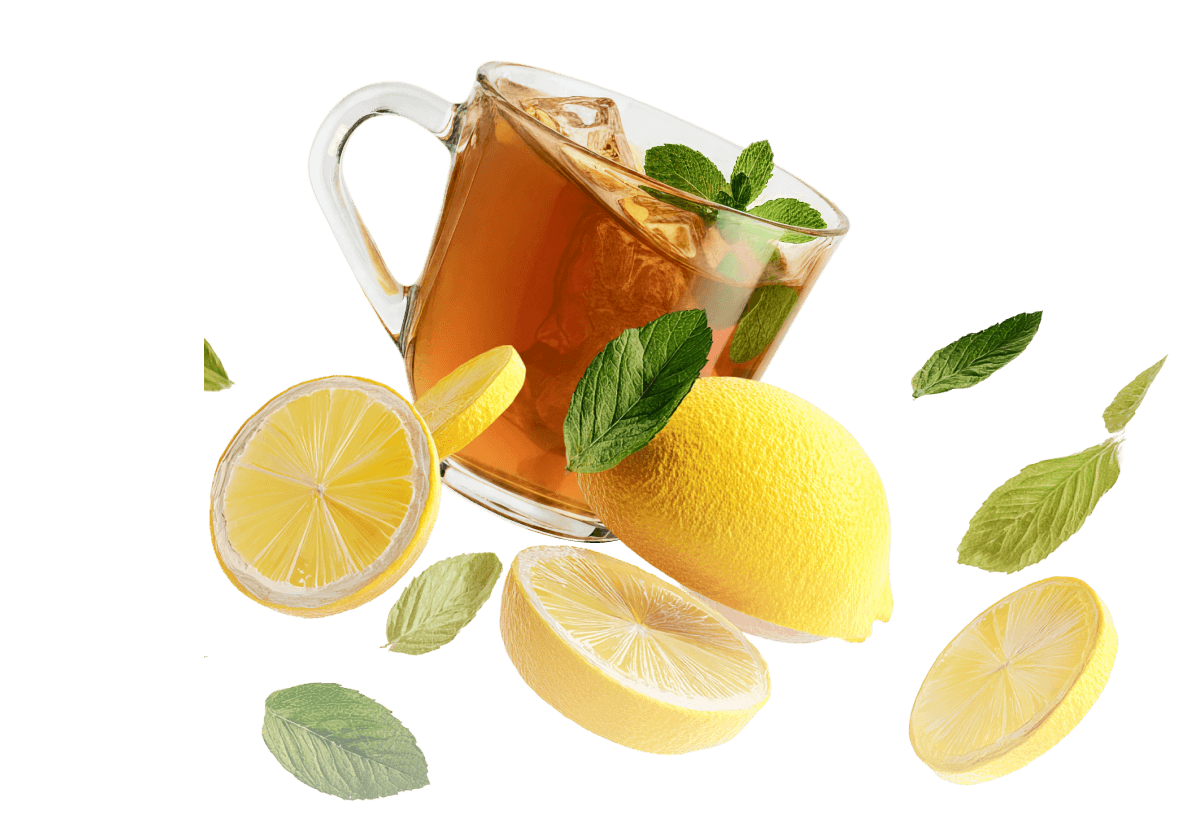
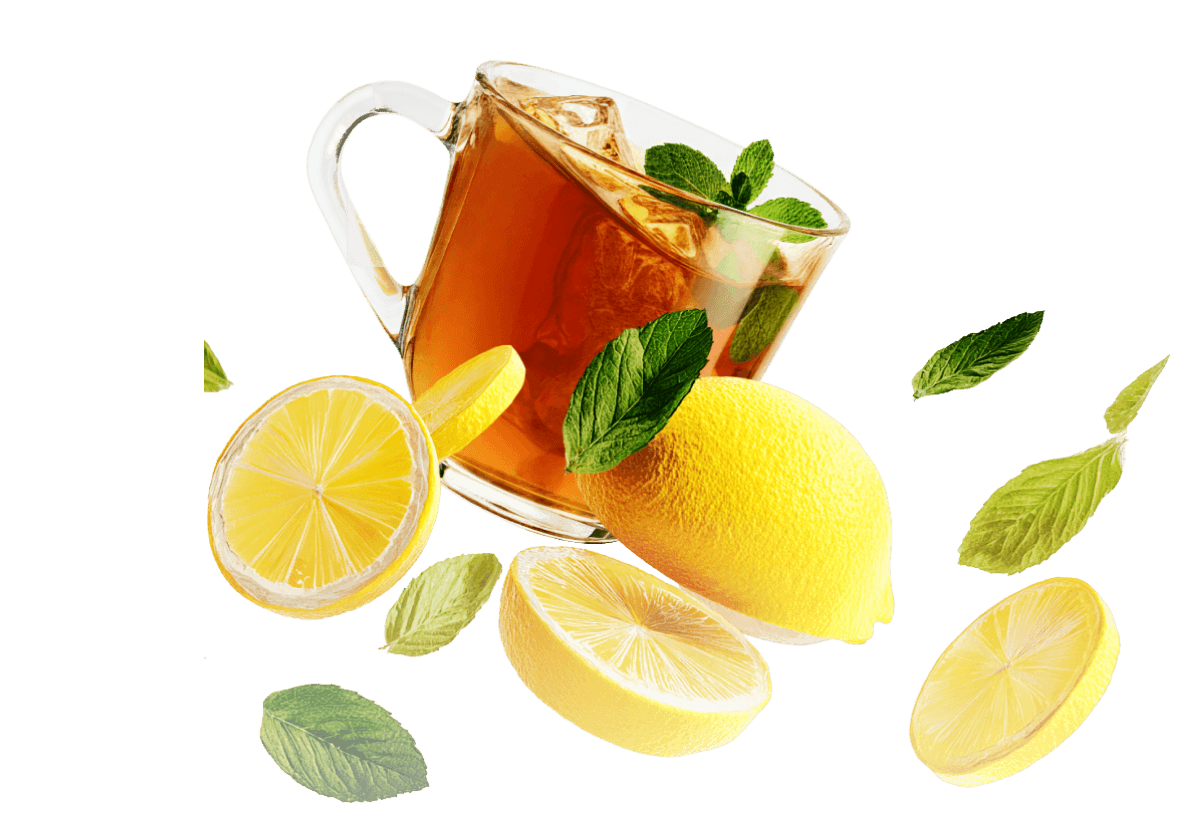
Update the Projects illustration in carousel 2

diff --git a/mos-carousel-2/index.html b/mos-carousel-2/index.html
@@ -1,5 +1,5 @@
 <!doctype html>
-<html lang="ru"><head><meta charset="utf-8"><meta name="viewport" content="width=device-width,initial-scale=1"><title>Вкусная Москва — карусель 2</title><link rel="icon" href="data:,"><link rel="stylesheet" href="styles.css?v=14"><link rel="stylesheet" href="header.css?v=7"><link rel="preload" href="assets/fonts/roboto-flex.ttf" as="font" type="font/ttf" crossorigin><link rel="stylesheet" href="fairs.css?v=2"><script type="module" src="carousel.js?v=9"></script><script type="module" src="fairs.js?v=2"></script></head>
+<html lang="ru"><head><meta charset="utf-8"><meta name="viewport" content="width=device-width,initial-scale=1"><title>Вкусная Москва — карусель 2</title><link rel="icon" href="data:,"><link rel="stylesheet" href="styles.css?v=15"><link rel="stylesheet" href="header.css?v=7"><link rel="preload" href="assets/fonts/roboto-flex.ttf" as="font" type="font/ttf" crossorigin><link rel="stylesheet" href="fairs.css?v=2"><script type="module" src="carousel.js?v=9"></script><script type="module" src="fairs.js?v=2"></script></head>
 <body><div id="mos-header" class="mos-widget-header mos_layouts_wrapper"><div class="Header_header__1FD6w Header_headerRendered__24O7k" tabindex="-1"><div class="Header_inside__1MzA3 ru"><header class="Caption_caption__3R-Mi" aria-label="Портал mos.ru"><div class="Caption_name__1pfTC"><a aria-disabled="true" tabindex="-1" aria-label="mos.ru — Официальный сайт Мэра Москвы" id="mos-header-title" class="link_link__29xFl link_focusable__lMy2y Caption_nameLink__2XS9J" style="height:100%"><span class="Caption_logo__IS1vg"><img src="assets/mos-header/logo.svg" aria-hidden="true" alt="" class="Caption_iconLogo__P_cnI"></span></a></div><div class="Caption_menu__2k-Z3"><div class="Menu_menuWrapper__341hI"><nav aria-label="Разделы портала" class="Menu_menu__13xOb"><div class="Menu_item__5wCCF"><div class="dropdown_dropdown__1Oynj dropdown_dropdownTriggerWithArrow__3jYM_"><a aria-disabled="true" tabindex="-1" role="link" class="Menu_link__1f7RY common_unstyledButton__10cKX common_large__34EIE common_large__34EIE link_primary__fU-Jd link_link__29xFl link_focusable__lMy2y">Новости</a><button aria-disabled="true" tabindex="-1" type="button" class="dropdown_dropdownTrigger__SxgNI link_focusable__lMy2y dropdown_dropdownTriggerWithArrowAlways__5y4mP" aria-label="Меню раздела Новости"><svg width="16" height="16" viewBox="0 0 16 16" fill="#0E0E0F" class="dropdown_dropdownTriggerArrow__17cwd dropdown_dropdownTriggerArrowVisible__3bAlf"><path d="M1.43774 5.3335L8.00008 11.8958L14.5624 5.3335L12.7711 5.3335L8.00008 10.1045L3.22908 5.3335L1.43774 5.3335Z" fill="#13151A"/></svg></button></div></div><div class="Menu_item__5wCCF"><div class="dropdown_dropdown__1Oynj dropdown_dropdownTriggerWithArrow__3jYM_"><a aria-disabled="true" tabindex="-1" role="link" class="Menu_link__1f7RY common_unstyledButton__10cKX common_large__34EIE common_large__34EIE link_primary__fU-Jd link_link__29xFl link_focusable__lMy2y">Услуги</a><button aria-disabled="true" tabindex="-1" type="button" class="dropdown_dropdownTrigger__SxgNI link_focusable__lMy2y dropdown_dropdownTriggerWithArrowAlways__5y4mP" aria-label="Меню раздела Услуги"><svg width="16" height="16" viewBox="0 0 16 16" fill="#0E0E0F" class="dropdown_dropdownTriggerArrow__17cwd dropdown_dropdownTriggerArrowVisible__3bAlf"><path d="M1.43774 5.3335L8.00008 11.8958L14.5624 5.3335L12.7711 5.3335L8.00008 10.1045L3.22908 5.3335L1.43774 5.3335Z" fill="#13151A"/></svg></button></div></div><div class="Menu_item__5wCCF"><a aria-disabled="true" tabindex="-1" role="link" class="Menu_link__1f7RY common_unstyledButton__10cKX common_large__34EIE common_large__34EIE link_primary__fU-Jd link_link__29xFl link_focusable__lMy2y">Мосбилет</a><div class="Menu_ticketIcon__lzpXe" aria-hidden="true" role="presentation"><img src="assets/mos-header/ticket.svg" alt=""></div></div><div class="Menu_item__5wCCF"><div class="dropdown_dropdown__1Oynj dropdown_dropdownTriggerWithArrow__3jYM_"><a aria-disabled="true" tabindex="-1" role="link" class="Menu_link__1f7RY common_unstyledButton__10cKX common_large__34EIE common_large__34EIE link_primary__fU-Jd link_link__29xFl link_focusable__lMy2y">Мэр</a><button aria-disabled="true" tabindex="-1" type="button" class="dropdown_dropdownTrigger__SxgNI link_focusable__lMy2y dropdown_dropdownTriggerWithArrowAlways__5y4mP" aria-label="Меню раздела Мэр"><svg width="16" height="16" viewBox="0 0 16 16" fill="#0E0E0F" class="dropdown_dropdownTriggerArrow__17cwd dropdown_dropdownTriggerArrowVisible__3bAlf"><path d="M1.43774 5.3335L8.00008 11.8958L14.5624 5.3335L12.7711 5.3335L8.00008 10.1045L3.22908 5.3335L1.43774 5.3335Z" fill="#13151A"/></svg></button></div></div><div class="Menu_item__5wCCF"><div class="dropdown_dropdown__1Oynj dropdown_dropdownTriggerWithArrow__3jYM_"><a aria-disabled="true" tabindex="-1" role="link" class="Menu_link__1f7RY common_unstyledButton__10cKX common_large__34EIE common_large__34EIE link_primary__fU-Jd link_link__29xFl link_focusable__lMy2y">Власть</a><button aria-disabled="true" tabindex="-1" type="button" class="dropdown_dropdownTrigger__SxgNI link_focusable__lMy2y dropdown_dropdownTriggerWithArrowAlways__5y4mP" aria-label="Меню раздела Власть"><svg width="16" height="16" viewBox="0 0 16 16" fill="#0E0E0F" class="dropdown_dropdownTriggerArrow__17cwd dropdown_dropdownTriggerArrowVisible__3bAlf"><path d="M1.43774 5.3335L8.00008 11.8958L14.5624 5.3335L12.7711 5.3335L8.00008 10.1045L3.22908 5.3335L1.43774 5.3335Z" fill="#13151A"/></svg></button></div></div><div class="Menu_item__5wCCF"><a aria-disabled="true" tabindex="-1" role="link" class="Menu_link__1f7RY common_unstyledButton__10cKX common_large__34EIE common_large__34EIE link_primary__fU-Jd link_link__29xFl link_focusable__lMy2y">Мосфото</a></div><div class="Menu_item__5wCCF"><a aria-disabled="true" tabindex="-1" role="link" class="Menu_link__1f7RY common_unstyledButton__10cKX common_large__34EIE common_large__34EIE link_primary__fU-Jd link_link__29xFl link_focusable__lMy2y">Мой район</a></div><div class="Menu_item__5wCCF"><div class="dropdown_dropdown__1Oynj dropdown_dropdownTriggerWithArrow__3jYM_"><a aria-disabled="true" tabindex="-1" role="link" class="Menu_link__1f7RY common_unstyledButton__10cKX common_large__34EIE common_large__34EIE link_primary__fU-Jd link_link__29xFl link_focusable__lMy2y">Помощь</a><button aria-disabled="true" tabindex="-1" type="button" class="dropdown_dropdownTrigger__SxgNI link_focusable__lMy2y dropdown_dropdownTriggerWithArrowAlways__5y4mP" aria-label="Меню раздела Помощь"><svg width="16" height="16" viewBox="0 0 16 16" fill="#0E0E0F" class="dropdown_dropdownTriggerArrow__17cwd dropdown_dropdownTriggerArrowVisible__3bAlf"><path d="M1.43774 5.3335L8.00008 11.8958L14.5624 5.3335L12.7711 5.3335L8.00008 10.1045L3.22908 5.3335L1.43774 5.3335Z" fill="#13151A"/></svg></button></div></div></nav><div class="Menu_lastSlot__1nixy Menu_slot__-tcaB common_item__16qjr"><div class="Search_searchWrapper__2cm_Z"><div class="Search_search__2uVwW"><button type="button" aria-disabled="true" tabindex="-1" class="Search_button__17yql link_focusable__lMy2y" aria-label="Поиск по сайту"><svg width="20" height="20" viewBox="0 0 20 20" fill="none" class="Search_icon__Sj_Ky" role="presentation"><path fill-rule="evenodd" clip-rule="evenodd" d="M9.1665 2.5415C5.50762 2.5415 2.5415 5.50762 2.5415 9.1665C2.5415 12.8254 5.50762 15.7915 9.1665 15.7915C10.6956 15.7915 12.1037 15.2735 13.2248 14.4034L16.9106 18.0891L18.0891 16.9106L14.4034 13.2248C15.2735 12.1037 15.7915 10.6956 15.7915 9.1665C15.7915 5.50762 12.8254 2.5415 9.1665 2.5415ZM4.12484 9.1665C4.12484 6.38207 6.38207 4.12484 9.1665 4.12484C11.9509 4.12484 14.2082 6.38207 14.2082 9.1665C14.2082 11.9509 11.9509 14.2082 9.1665 14.2082C6.38207 14.2082 4.12484 11.9509 4.12484 9.1665Z" fill="#13151A"/></svg></button></div></div></div></div></div><div class="Caption_icons__1krw6"><div class="Caption_navIcon__1FbCm Caption_icon__2XT7z"><button aria-disabled="true" tabindex="-1" type="button" class="Icon_icon__voGwJ common_unstyledButton__10cKX" aria-label="Навигация по сайту"><svg width="16" height="12" class="Icon_iconImg__1Ll2u" role="img" aria-label="Навигация по сайту"><g transform="translate(-124 -292)" fill="none" fill-rule="evenodd"><path d="M139.25 302a.75.75 0 110 1.5h-14.5a.75.75 0 110-1.5h14.5zm0-5a.75.75 0 110 1.5h-14.5a.75.75 0 010-1.5h14.5zm0-5a.75.75 0 110 1.5h-14.5a.75.75 0 010-1.5h14.5z" fill="currentColor"/></g></svg></button></div><div class="Caption_searchIcon__3LSSY Caption_icon__2XT7z"><button aria-disabled="true" tabindex="-1" type="button" class="Icon_icon__voGwJ common_unstyledButton__10cKX" aria-label="Поиск по сайту"><svg width="16" height="17" fill="none" class="Icon_iconImg__1Ll2u" role="img" aria-label="Поиск по сайту"><path fill-rule="evenodd" clip-rule="evenodd" d="M14.508 7.462a7.045 7.045 0 1 0-3.307 5.972l3.04 3.04a.75.75 0 0 0 1.06 0l.089-.09a.75.75 0 0 0 0-1.06l-2.913-2.913a7.022 7.022 0 0 0 2.03-4.95Zm-7.046-5.42a5.42 5.42 0 1 0 0 10.84 5.42 5.42 0 0 0 0-10.84Z" fill="currentColor"/></svg></button></div><div class="Caption_userMobile__apo0A Caption_icon__2XT7z"><div class="User_mobile__3-mrU"><button aria-disabled="true" tabindex="-1" type="button" class="UserIcon_icon__3o-8a common_unstyledButton__10cKX" aria-label="Вход/Регистрация"><svg width="20" height="20" viewBox="0 0 20 20" fill="none" role="presentation"><path fill-rule="evenodd" clip-rule="evenodd" d="M9.99988 1.09375C7.49734 1.09375 5.46863 3.12246 5.46863 5.625C5.46863 8.12754 7.49734 10.1562 9.99988 10.1562C12.5024 10.1562 14.5311 8.12754 14.5311 5.625C14.5311 3.12246 12.5024 1.09375 9.99988 1.09375ZM7.03113 5.625C7.03113 3.9854 8.36028 2.65625 9.99988 2.65625C11.6395 2.65625 12.9686 3.9854 12.9686 5.625C12.9686 7.2646 11.6395 8.59375 9.99988 8.59375C8.36028 8.59375 7.03113 7.2646 7.03113 5.625Z" fill="#13151A"/><path d="M2.74007 14.6018C2.09905 15.4352 1.695 16.2654 1.4506 16.887C1.2081 17.5038 1.08363 18.0948 0.952637 18.7334L2.48327 19.0473C2.48747 19.0268 2.49165 19.0064 2.49583 18.9861C2.60464 18.4549 2.70424 17.9687 2.90475 17.4587C3.10957 16.9378 3.4477 16.2446 3.97855 15.5545C5.02254 14.1973 6.83601 12.8125 9.99994 12.8125C13.1639 12.8125 14.9773 14.1973 16.0213 15.5545C16.5522 16.2446 16.8903 16.9378 17.0951 17.4587C17.2959 17.9693 17.3934 18.4457 17.5019 18.9756C17.5068 18.9994 17.5117 19.0233 17.5166 19.0473L19.0472 18.7334C18.9163 18.0949 18.7916 17.5033 18.5493 16.887C18.3049 16.2654 17.9008 15.4352 17.2598 14.6018C15.96 12.9121 13.711 11.25 9.99994 11.25C6.28886 11.25 4.03984 12.9121 2.74007 14.6018Z" fill="#13151A"/></svg></button></div></div><div class="Caption_userDesktop__2wfJM"><a aria-disabled="true" tabindex="-1" class="Caption_item__3tAks link_white__1QFFV link_link__29xFl link_focusable__lMy2y Caption_itemUser__373OT User_loginLink__1L0QF common_unstyledButton__10cKX User_loginButton__2k0Cj" aria-label="Вход/Регистрация"><span class="User_loginLinkText__3rVLq" aria-hidden="true">Войти</span><span class="User_icon__2FnO5 link_white__1QFFV link_link__29xFl link_focusable__lMy2y Caption_icon__2XT7z"><svg width="20" height="20" viewBox="0 0 20 20" fill="none" role="presentation"><path fill-rule="evenodd" clip-rule="evenodd" d="M9.99988 1.09375C7.49734 1.09375 5.46863 3.12246 5.46863 5.625C5.46863 8.12754 7.49734 10.1562 9.99988 10.1562C12.5024 10.1562 14.5311 8.12754 14.5311 5.625C14.5311 3.12246 12.5024 1.09375 9.99988 1.09375ZM7.03113 5.625C7.03113 3.9854 8.36028 2.65625 9.99988 2.65625C11.6395 2.65625 12.9686 3.9854 12.9686 5.625C12.9686 7.2646 11.6395 8.59375 9.99988 8.59375C8.36028 8.59375 7.03113 7.2646 7.03113 5.625Z" fill="#13151A"/><path d="M2.74007 14.6018C2.09905 15.4352 1.695 16.2654 1.4506 16.887C1.2081 17.5038 1.08363 18.0948 0.952637 18.7334L2.48327 19.0473C2.48747 19.0268 2.49165 19.0064 2.49583 18.9861C2.60464 18.4549 2.70424 17.9687 2.90475 17.4587C3.10957 16.9378 3.4477 16.2446 3.97855 15.5545C5.02254 14.1973 6.83601 12.8125 9.99994 12.8125C13.1639 12.8125 14.9773 14.1973 16.0213 15.5545C16.5522 16.2446 16.8903 16.9378 17.0951 17.4587C17.2959 17.9693 17.3934 18.4457 17.5019 18.9756C17.5068 18.9994 17.5117 19.0233 17.5166 19.0473L19.0472 18.7334C18.9163 18.0949 18.7916 17.5033 18.5493 16.887C18.3049 16.2654 17.9008 15.4352 17.2598 14.6018C15.96 12.9121 13.711 11.25 9.99994 11.25C6.28886 11.25 4.03984 12.9121 2.74007 14.6018Z" fill="#13151A"/></svg></span></a></div></div></header></div></div></div>
 <div class="artboard">
 <main class="hero" aria-labelledby="title" tabindex="0" aria-label="Вкусная Москва. Перетаскивай карточки мышью или используй стрелки клавиатуры.">
@@ -10,7 +10,7 @@
   <img class="hero-food-fish" src="assets/image-food-3.png?v=2" width="600" height="420" alt="" draggable="false">
   <img class="hero-food-made-in-moscow" src="assets/image-food-4.png?v=66bab797d0ae" width="600" height="420" alt="" draggable="false">
   <img class="hero-food-recipes" src="assets/image-food-5.png?v=ad65a6612260" width="600" height="420" alt="" draggable="false">
-  <img class="hero-food-projects" src="assets/tea.png?v=4dad14e34ef6" width="966" height="743" alt="" draggable="false">
+  <img class="hero-food-projects" src="assets/image-food-6.png?v=2b4e83b8240d" width="600" height="420" alt="" draggable="false">
 </div>
 <div class="cards" aria-hidden="true">
 <div class="card-product"><img src="assets/food/1.jpg" alt="Сырники" draggable="false"></div>

diff --git a/mos-carousel-2/styles.css b/mos-carousel-2/styles.css
@@ -40,11 +40,6 @@ h1{margin:0;color:#df2836;font:600 280px/.8 "Roboto Flex",sans-serif;text-align:
   0%, 100% { translate: 0 -10px; }
   50% { translate: 0 10px; }
 }
-.hero-food .hero-food-projects {
-  inset: 30px auto auto 102px;
-  width: 483px;
-  height: auto;
-}
 .hero-food .hero-food-default {
   opacity: 1;
   transform: none;
